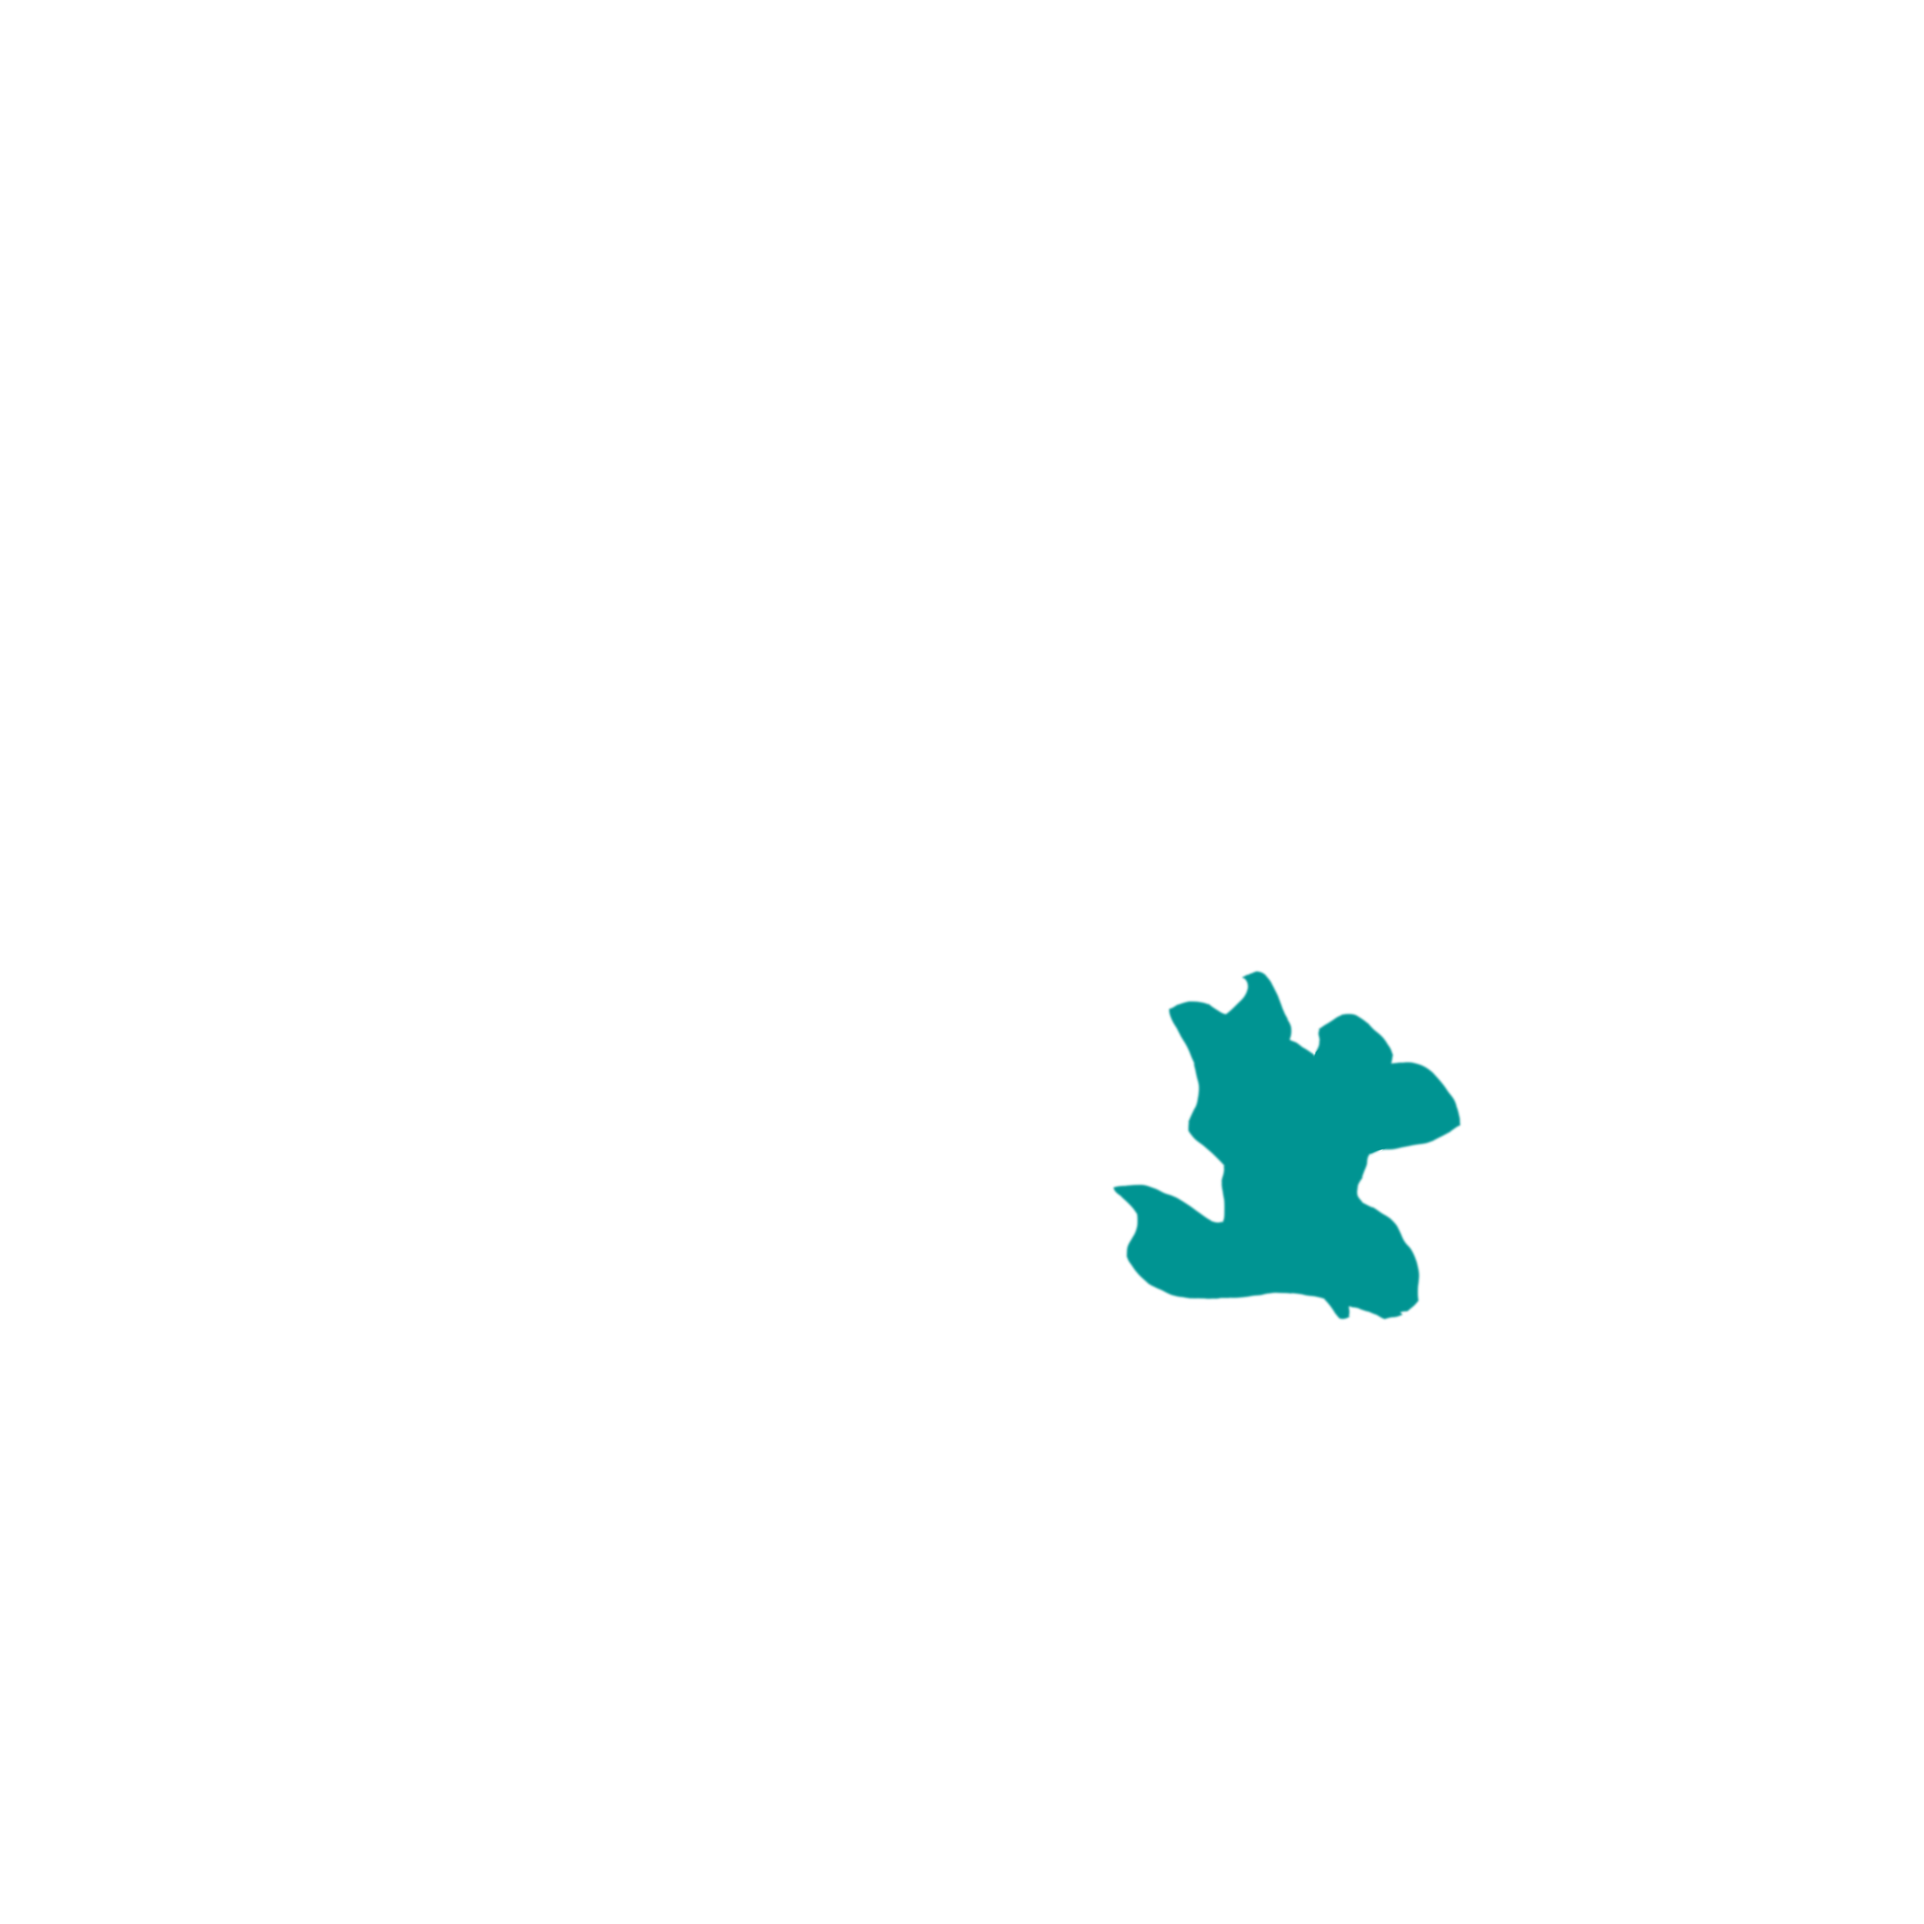
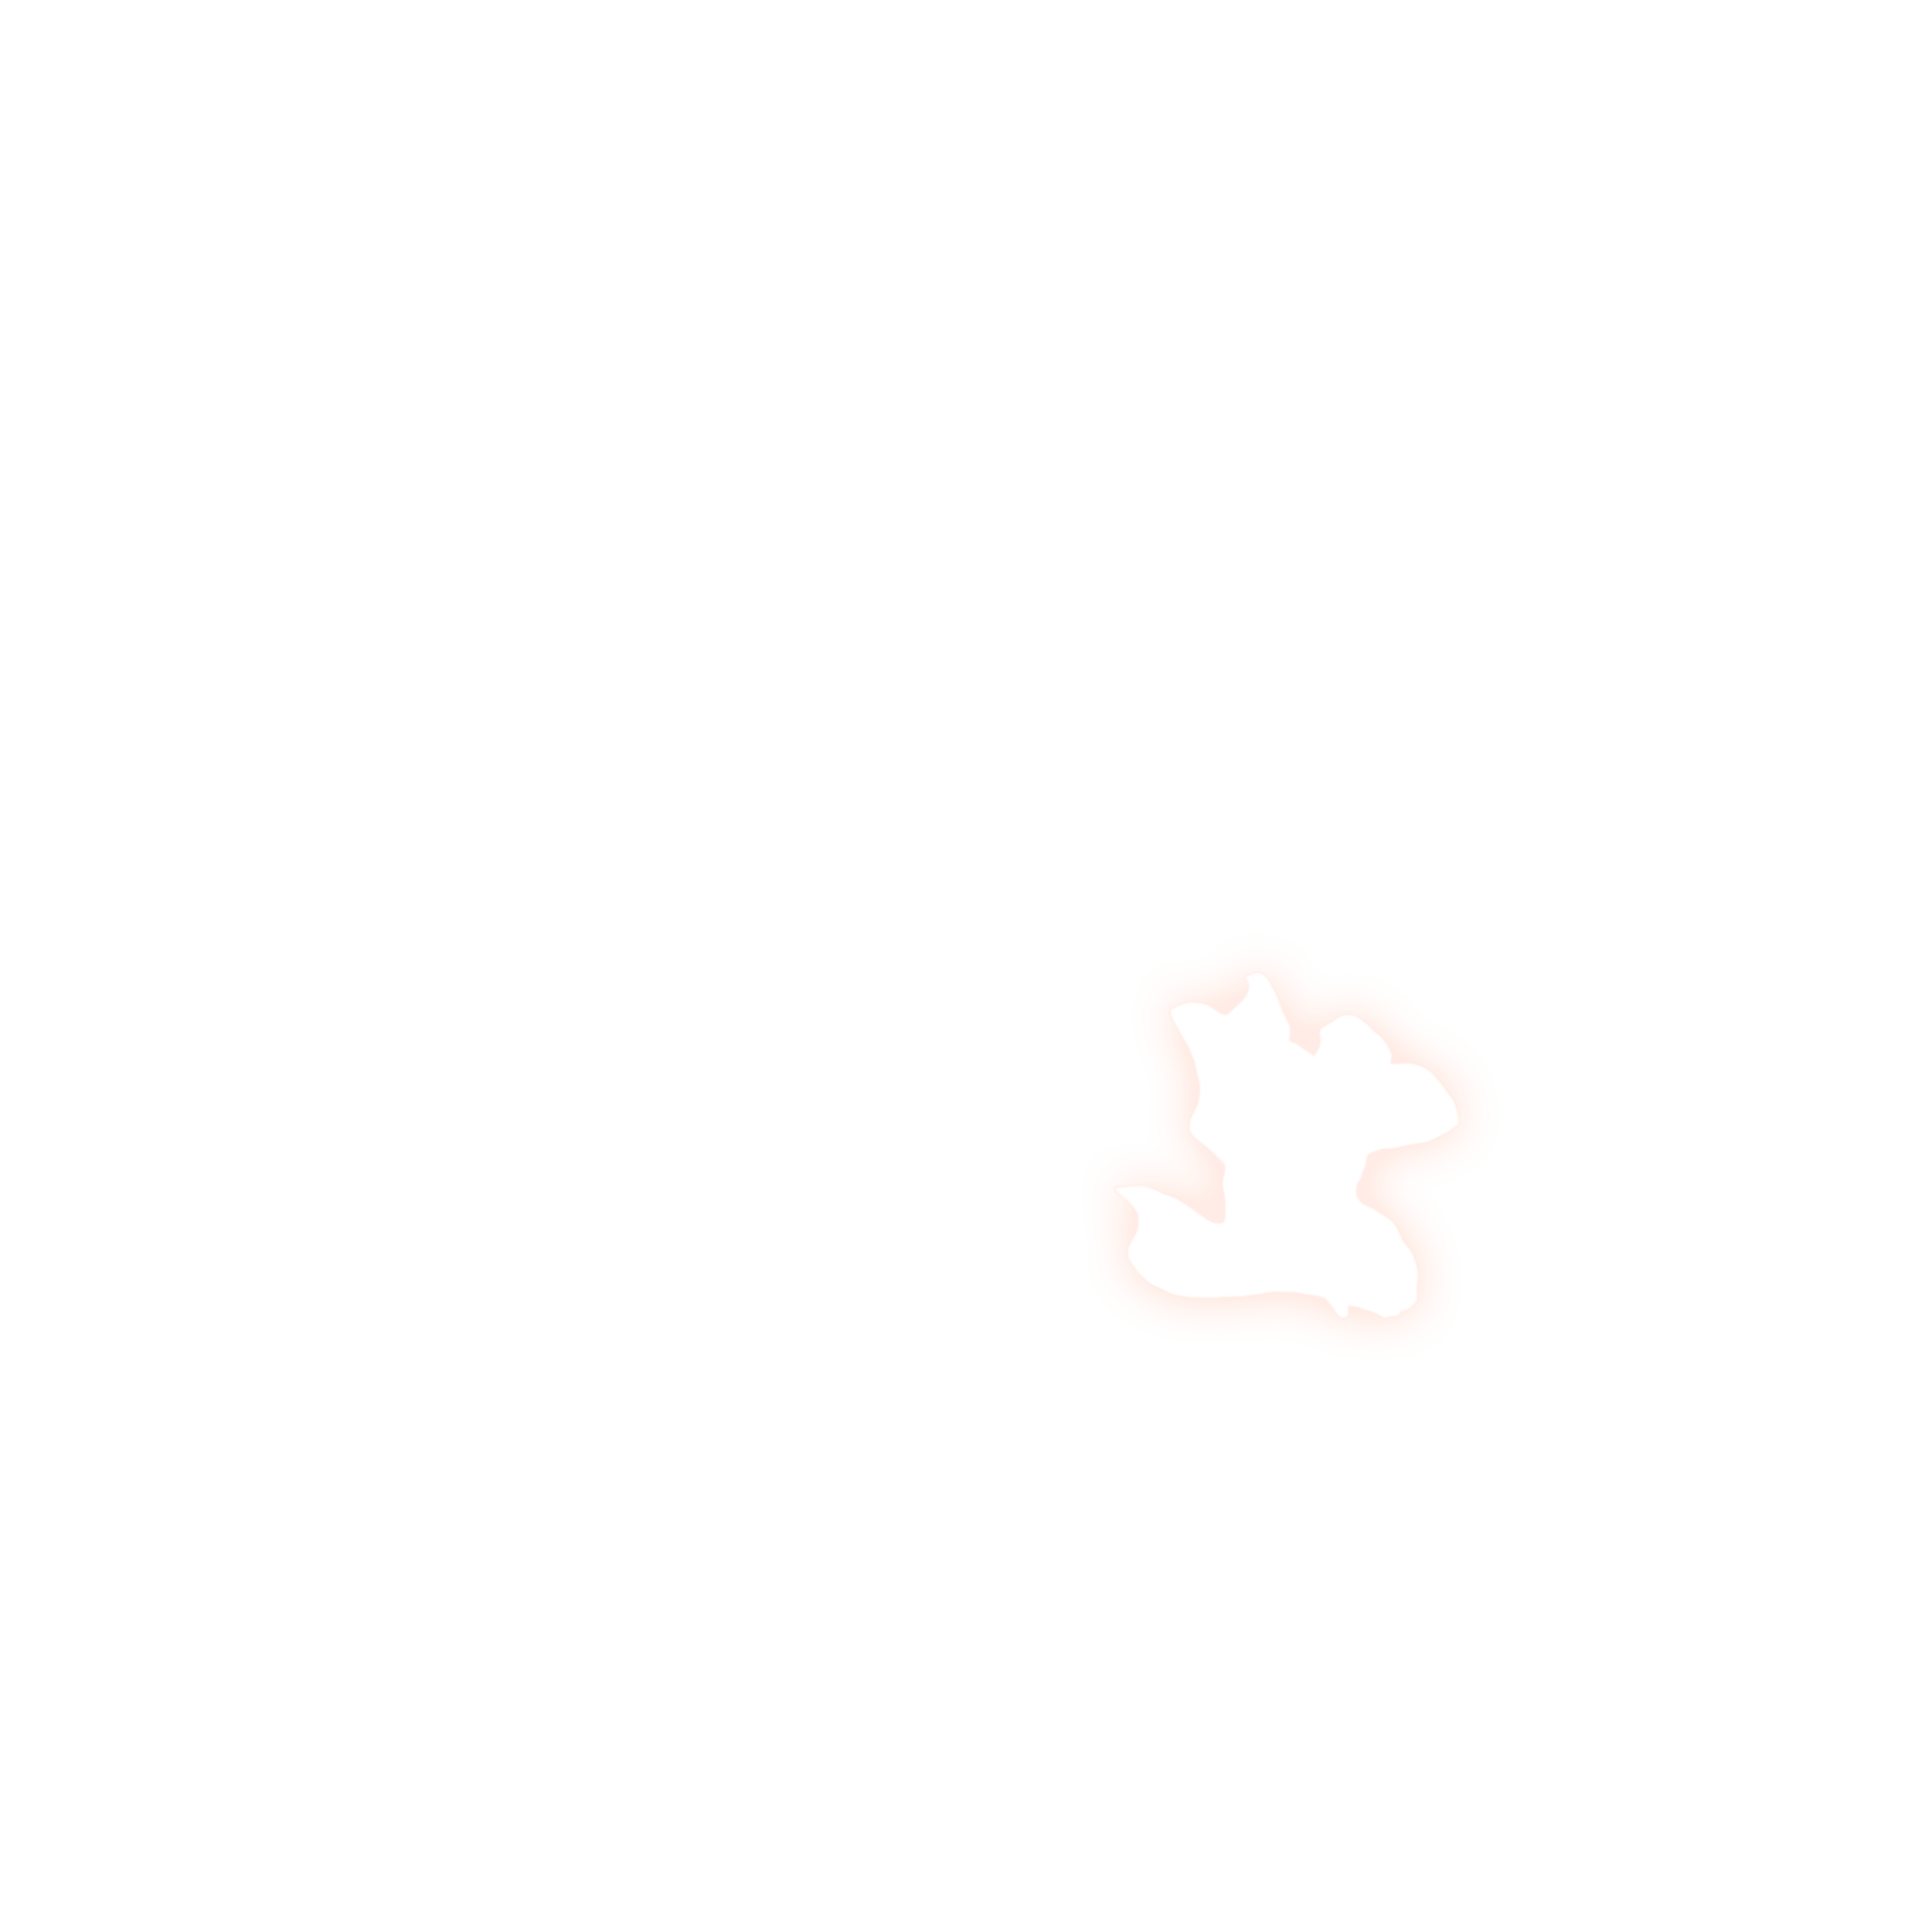
adds glow masks

Changed region(s): [[0.5895, 0.4964, 0.7756, 0.6826]]

diff --git a/scripts/index.js b/scripts/index.js
@@ -22,8 +22,6 @@ window.onload = function(){
 	var maskCanvas = document.getElementById('myCanvas');
 	animationCanvas = document.getElementById('animationCanvas');
 	animationContext = animationCanvas.getContext('2d');
-	animationContext.shadowBlur = 10;
-	animationContext.shadowColor = "yellow";
 
 	var maskContext = maskCanvas.getContext('2d');
 	maskContext.globalAlpha = 0.01;
@@ -40,6 +38,7 @@ window.onload = function(){
 			maskLoader ++;
 			if(maskLoader == 14){
 				console.log("all masks loaded");
+				draw();
 			}
 		};
 	}
@@ -229,20 +228,6 @@ function playVocalSound(buttonX, buttonY) {
 	}
 }
 
-// window.onclick = function() {
-// 	if (!maskVisible) {
-// 		context.globalAlpha = 0.1;
-// 		context.drawImage(img, 0, 0, 720, 720);
-// 		maskVisible = true;
-// 	}
-// 	else {
-// 		maskVisible = false;
-// 		context.clearRect(0, 0, 720, 720);
-// 		context.globalAlpha = 0.003;
-// 		context.drawImage(img, 0, 0, 720, 720);
-// 	}
-// }
-
 var currentMouse = 0;
 
 function handleMouseover(color){
@@ -314,12 +299,13 @@ function handleMouseover(color){
 }
 
 function schedulePlay(num){
-	// animationContext.clearRect(0, 0, animationCanvas.width, animationCanvas.height);
-	// animationContext.drawImage(masks[num], 0, 0, 720, 720);
+	console.log(num);
 	if(currentMouse != num){
+		animationContext.clearRect(0, 0, animationCanvas.width, animationCanvas.height);
+		animationContext.drawImage(masks[num - 1], 0, 0, animationCanvas.width, animationCanvas.height);
+
 		var nextNote = Math.floor(Tone.context.currentTime / 0.125);
 		nextNote = nextNote * 0.125 + 0.125;
-		console.log(Tone.Transport.toSeconds(nextNote + "n"));
 		sampler.triggerRelease(nextNote);
 		sampler.triggerAttack("A." + num, nextNote);
 	}
@@ -366,3 +352,18 @@ Tone.Buffer.on("load", function(){
 	// instrumental.start();
 	//instrumental.stop to stop it
 });
+
+// var counter = 0;
+// var fps = 100;
+// function draw() {
+//     setTimeout(function() {
+//         requestAnimationFrame(draw);
+//         animationContext.clearRect(0, 0, animationCanvas.width, animationCanvas.height);
+// 		animationContext.drawImage(masks[counter], 0, 0, animationCanvas.width, animationCanvas.height);
+// 		console.log(counter);
+// 		counter ++;
+// 		if(counter > 13){
+// 			counter = 0;
+// 		}
+//     }, 1000 / fps);
+// }
